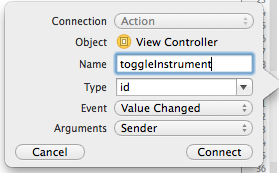
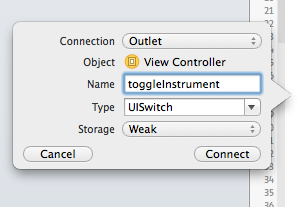
-new "toggleInstrument" screenshot -added "first-swift-instrument.html" -updated tutorials and sidebar links

diff --git a/tutorials/first-swift-instrument.html b/tutorials/first-swift-instrument.html
@@ -1,0 +1,195 @@
+---
+title: Coding Your First Swift Instrument with Audio Kit
+header: Coding Your First Swift Instrument
+permalink: /tutorials/first-swift-instrument/
+layout: page
+---
+
+
+<p>To make an instrument in swift, make a new file (command-n), and click "Swift file" under "Source".</p>
+
+<p>
+<img src=/images/makeNewSwiftFile.png>
+</p>
+
+<p>Name your file "Instrument".</p>
+
+<p>Open the file, and delete "import Foundation", as we won't be needing any of the Foundation frameworks's functionality for our instrument, just Audio Kit's. Then, you can declare a class of type AKInstrument. Call your class "FMSynth". Make sure to add some curly braces!
+</p>
+
+{% highlight ruby %}
+class FMSynth: AKInstrument {
+
+}
+{% endhighlight %}
+
+
+
+<p>Add the following lines inside of the brackets you just made:</p>
+
+{% highlight ruby %}
+override init() {
+    super.init()
+{% endhighlight %}
+
+<p>
+Next we're going to declare an instance of AKSineTable called "sine" with the code below and add it to the audio processing graph. The "let" keyword signifies that we are creating a constant. AKSineTable generates composite waveforms made up of weighted sums of simple sinusoids.
+</p>
+
+{% highlight ruby %}
+let sine = AKSineTable()
+addFTable(sine)
+{% endhighlight %}
+
+
+<p>Now we're going to declare an instance of AKFMOscillator called "fmOscillator".</p>
+
+{% highlight ruby %}
+let fmOscillator = AKFMOscillator(
+{% endhighlight %}
+
+
+<p>
+Add the lines below after the first parenthesis to initialize your FMOscillator instance's parameters with some default values.
+</p>
+
+{% highlight ruby %}
+FTable: sine,
+baseFrequency: AKConstant(float:440),
+carrierMultiplier:AKConstant(float:1),
+modulatingMultiplier:AKConstant(float:0.5),
+modulationIndex:AKConstant(float:1.0),
+amplitude:AKConstant(float:0.1)
+)
+{% endhighlight %}
+
+
+<p>Next, add the line below to connect your oscillator to the audio processing graph.</p>
+
+{% highlight ruby %}
+connect(fmOscillator)
+{% endhighlight %}
+
+<p>
+Finally, add the line below to connect your oscillator to AKAudioOutput, which writes stereo audio data to an external device or stream. This line also connects AKAudioOutput to the audio processing graph.
+</p>
+
+{% highlight ruby %}
+connect(AKAudioOutput(audioSource: fmOscillator)
+{% endhighlight %}
+
+<p>When you're done, your "Instrument.swift" file should look like the one below:</p>
+
+
+{% highlight ruby %}
+class FMSynth: AKInstrument {
+
+    // INSTRUMENT DEFINITION ===================================================
+
+    override init() {
+        super.init()
+
+        let sine = AKSineTable()
+        addFTable(sine)
+
+        let fmOscillator = AKFMOscillator(
+            FTable: sine,
+            baseFrequency: AKConstant(float:440),
+            carrierMultiplier:AKConstant(float:1),
+            modulatingMultiplier:AKConstant(float:0.5),
+            modulationIndex:AKConstant(float:1.0),
+            amplitude:AKConstant(float:0.1)
+        )
+        connect(fmOscillator)
+        connect(AKAudioOutput(audioSource: fmOscillator))
+    }
+}
+{% endhighlight %}
+
+
+
+<p>Now that we've finished making our instrument, we can set up a button to turn it on and off. You can delete "LaunchScreen.xib", we won't be needing it at all for this project. Then, navigate to "Main.storyboard", and drag a  UISwitch onto the canvas. Make sure that the switch’s default state is set to “Off”. This way, our instrument won’t turn on right away until the user turns the switch to “On”.
+</p>
+
+<img src=/images/switchOff.png>
+
+<p>
+Next, open up the assistant editor, and make sure it’s set to ViewController.swift. Control-drag from your switch to the view controller file, and create an IBAction named “toggleInstrument”.
+</p>
+
+<img src=/images/toggleInstrument.png>
+
+
+{% highlight ruby %}
+@IBAction func toggleInstrument(sender: AnyObject)
+{% endhighlight %}
+
+
+<p>
+Now, repeat the process, but create an IBOutlet instead of an IBAction called "toggleSwitchClicked". Add this above your instrument declaration. This will let us know what the current state (On or Off) of our toggle switch is.
+</p>
+
+{% highlight ruby %}
+@IBOutlet weak var toggleSwitchClicked: UISwitch!
+{% endhighlight %}
+
+<p>
+Now, add the code below inside of your "toggleInstrument" IBAction. If the current state of the toggle switch is "on", fmOscillator will play. Otherwise, fmOscillator will be turned off.
+<p>
+
+{% highlight ruby %}
+  if toggleSwitchClicked.on
+{
+  fmOscillator.play()
+}
+  else
+{
+  fmOscillator.stop()
+}
+{% endhighlight %}
+
+<p>Your ViewController.swift file should look like the code listing below:</p>
+
+
+
+{% highlight ruby %}
+import UIKit
+
+class ViewController: UIViewController {
+
+    @IBOutlet weak var toggleSwitchClicked: UISwitch!
+    let fmOscillator = FMSynth()
+
+    override func viewDidLoad() {
+        super.viewDidLoad()
+        // Do any additional setup after loading the view, typically from a nib.
+        let orchestra = AKOrchestra()
+        orchestra.addInstrument(fmOscillator)
+        let manager = AKManager.sharedAKManager()
+        manager.runOrchestra(orchestra)
+    }
+
+
+    @IBAction func toggleInstrument(sender: AnyObject) {
+        if toggleSwitchClicked.on
+        {
+            fmOscillator.play()
+        }
+        else
+        {
+            fmOscillator.stop()
+        }
+    }
+
+    override func didReceiveMemoryWarning() {
+        super.didReceiveMemoryWarning()
+        // Dispose of any resources that can be recreated.
+    }
+}
+{% endhighlight %}
+
+<p>Go ahead and run your project. You should hear a 440Hz tone when you turn your switch on.</p>
+
+<p>
+Well done! You've made your first Audio Kit instrument in Switf. Next, we'll show you how to add some user interaction elements to your project.
+</p>

diff --git a/tutorials/index.html b/tutorials/index.html
@@ -9,6 +9,7 @@ layout: tutorials
   <li class="{% if page.permalink == '/tutorials/getting-started/' %}current{% endif %}"><a href="/tutorials/getting-started/">Getting Started</a></li>
   <li class="{% if page.permalink == '/tutorials/getting-started-swift/' %}current{% endif %}"><a href="/tutorials/getting-started-swift/">Getting Started in Swift</a></li>
   <li class="{% if page.permalink == '/tutorials/first-instrument/' %}current{% endif %}"><a href="/tutorials/first-instrument/">Coding Your First Instrument</a></li>
+  <li class="{% if page.permalink == '/tutorials/first-swift-instrument/' %}current{% endif %}"><a href="/tutorials/first-swift-instrument/">Coding Your First Swift Instrument</a></li>
   <li class="{% if page.permalink == '/tutorials/user-interaction/' %}current{% endif %}"><a href="/tutorials/user-interaction/">Adding User Interaction to your Audio Kit Project</a></li>
   <li class="{% if page.permalink == '/tutorials/contributing/' %}current{% endif %}"><a href="/tutorials/contributing/">Contributing to Audio Kit</a></li>
 </ul>

diff --git a/tutorials/first-instrument.html b/tutorials/first-instrument.html
@@ -81,11 +81,11 @@ Now we can create our sine wave generator, which is an instance of AKSineTable. 
 {% highlight objective-c %}
         AKFMOscillator *fmOscillator;
         fmOscillator = [[AKFMOscillator alloc]initWithFTable:sineTable
-                                           baseFrequency:akp(440)
-                                       carrierMultiplier:akp(1)
-                                    modulatingMultiplier:akp(0.5)
-                                         modulationIndex:akp(1.0)
-                                             amplitude:akp(0.1)];
+                                               baseFrequency:akp(440)
+                                           carrierMultiplier:akp(1)
+                                        modulatingMultiplier:akp(0.5)
+                                             modulationIndex:akp(1.0)
+                                                   amplitude:akp(0.1)];
 {% endhighlight %}
 
 

diff --git a/_includes/sidebars/tutorials.html b/_includes/sidebars/tutorials.html
@@ -7,6 +7,7 @@
   <li class="{% if page.permalink == '/tutorials/getting-started/' %}current{% endif %}"><a href="/tutorials/getting-started/">Getting Started</a></li>
   <li class="{% if page.permalink == '/tutorials/getting-started-swift/' %}current{% endif %}"><a href="/tutorials/getting-started-swift/">Getting Started in Swift</a></li>
   <li class="{% if page.permalink == '/tutorials/first-instrument/' %}current{% endif %}"><a href="/tutorials/first-instrument/">Coding Your First Instrument</a></li>
+  <li class="{% if page.permalink == '/tutorials/first-swift-instrument/' %}current{% endif %}"><a href="/tutorials/first-swift-instrument/">Coding Your First Swift Instrument</a></li>
   <li class="{% if page.permalink == '/tutorials/contributing/' %}current{% endif %}"><a href="/tutorials/contributing/">Contributing to Audio Kit</a></li>
 </ul>
 
